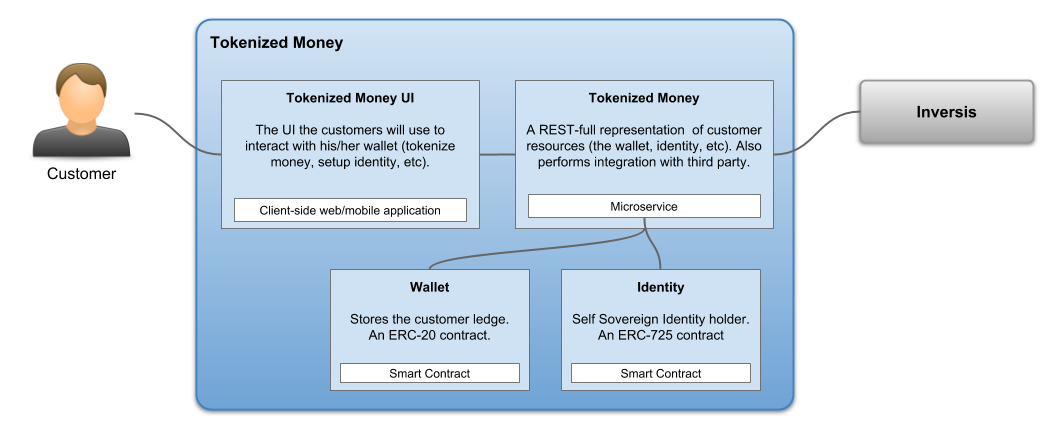
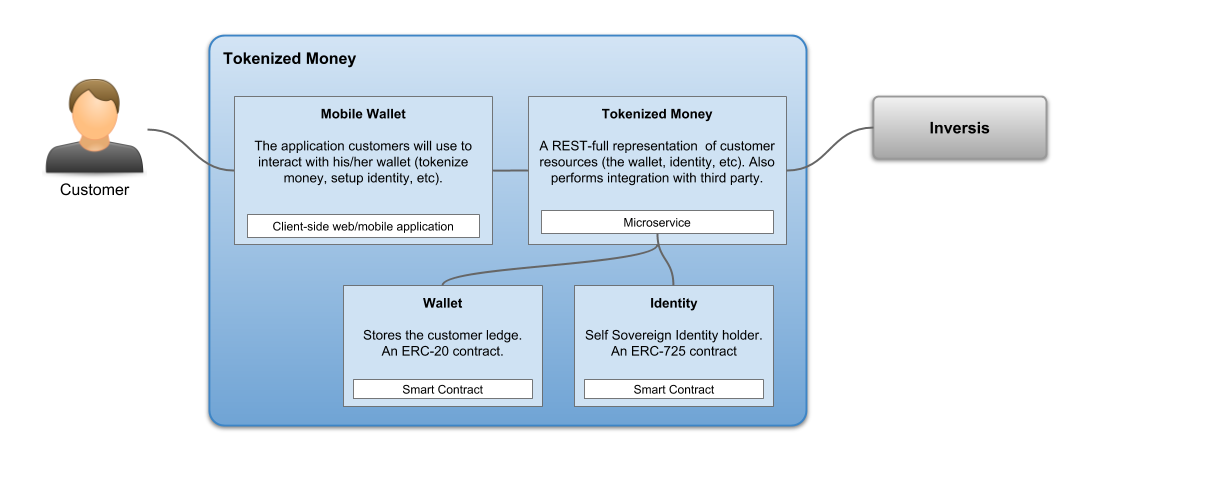
Update tokenized-money-poc/README.md

diff --git a/tokenized-money-poc/README.md b/tokenized-money-poc/README.md
@@ -42,11 +42,74 @@ In this diagram we'll model the different application containers involved in the
 
 #### Components
 
+> TBD
 
 ### Technology
+
+As seen in the container diagram, this system is composed of different subsystems, each of them with different requisites, there will be more than one application architecture and technology involved. 
+
+Let's split by application subsystem.
+
+#### Mobile Wallet
+
+This is the application the customers will use to interact with his/her wallet. It will be an IOS and Android mobile application. Other targets, like for example desktop, browser-based or Windows Phone, are out of scope.
+
+We have two main scenarios: a **native** or a **hybrid/PWA** application. Each of the solution have pros and cons:
+
+##### Native application
+
+This applications are native to device target. Usually are built with the platform SDK. 
+
+**PROS**
+
+  - Platform *Look&Feel*. Better usability and UX.
+
+**CONS**
+
+  - Two applications to build and maintain.
+  - Worst release rollout process.
+
+
+##### Hybrid/PWA application
+
+**PROS**
+
+  - Only one application to be built.
+
+**CONS**
+
+  - Worst UX, because won't be native to the plafform.
+
+
+##### Application architecture proposed
+
+Taking into account other requirements, like time to market, quick wins, etc; and also related to initial team, I propose to build an Hybrid/PWA.
+
+A
+
+
+#### Tokenized Money
+
+A set os REST resources to be consumed by the **Mobile Wallet** application.
+
+> TBD
+
+
+#### Wallet
+
+> TBD
+
+
+#### Identity
+
+> TBD
 
 
 ## Team
 
+> TBD
+
 
 ## Culture
+
+> TBD

diff --git a/tokenized-money-poc/glossary.md b/tokenized-money-poc/glossary.md
@@ -1,13 +1,14 @@
 Glossary
 ========
 
-
 | Term        | Description   
 | -----------|:--------------------
 | Fiat       | A pejorative way to talk about *normal* currencies. 
-| ERC20      | A Smart Contracts standard for token creation. In or case we want to tokenized fiat, so we need out contracts to be standard. 
-| ERC725     | A Smart Contracts standard related to **Self Sovereign Identity**. We'll follow this standard for KYC.
+| ERC20      | A Smart Contract standard for token creation. In or case we want to tokenized fiat, so we need out contracts to be standard. 
+| ERC725     | A Smart Contract standard related to **Self Sovereign Identity**. We'll follow this standard for KYC.
 | KYC        | *Know Your Customer*. Is the process of a business identifying and verifying the identity of its clients
 | topup      | Put money in the wallet
-| aquirer    | A company that can operate with e-money
-
+| acquirer   | A company that can operate with e-money
+| EDE        | *Entidad de dinero electrónico* (spanish). A company with a license to operate with *e-money*.
+| PWA        | *[Progressive Web Application](https://en.wikipedia.org/wiki/Progressive_web_app)*, are web applications that appear as native applications to user.
+| 
